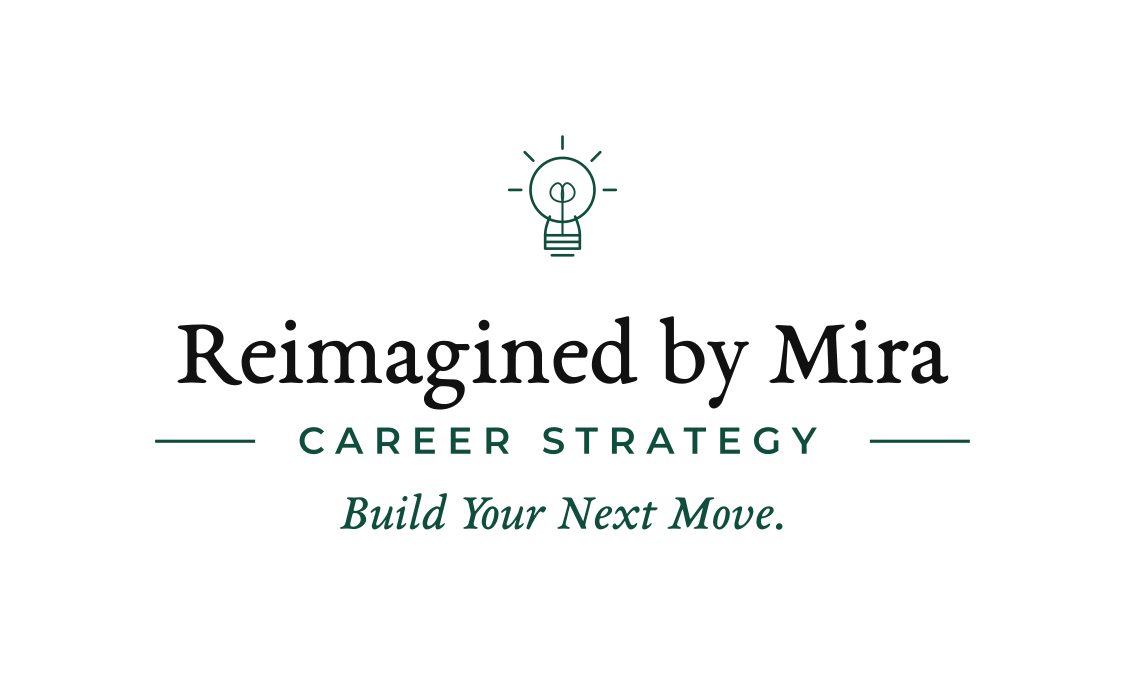
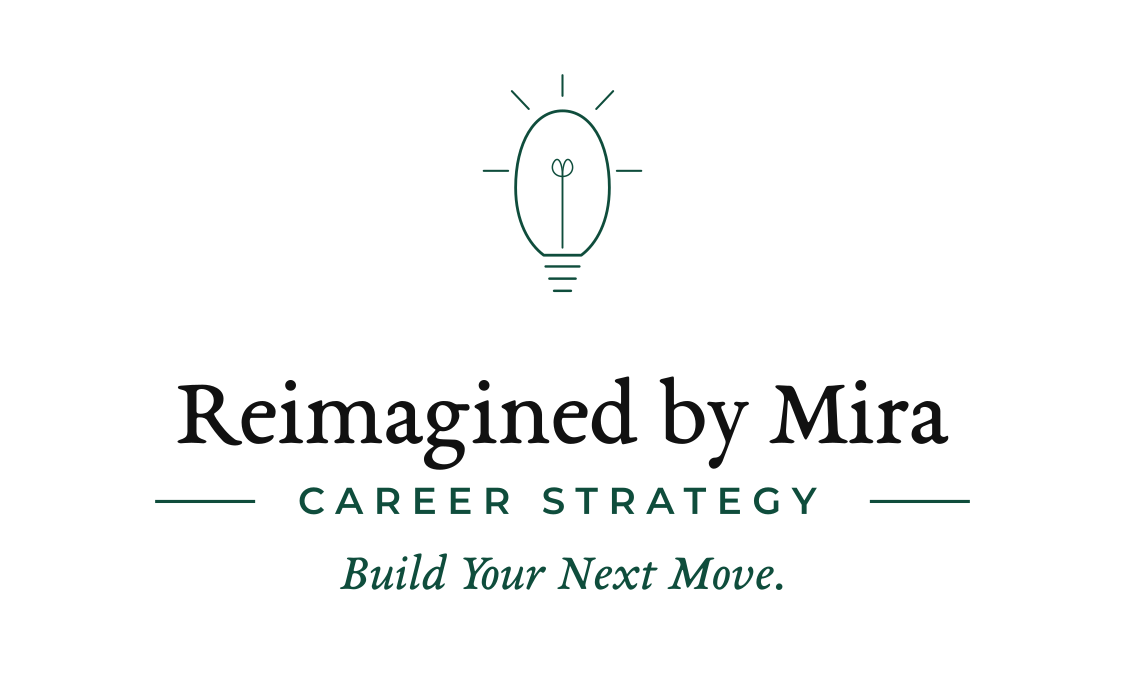
Redesign lightbulb mark for a more premium, editorial feel
Full redraw per feedback that the icon read as generic clip art next
to the refined wordmark:

- Globe: graceful tapered (non-circular) silhouette instead of a
  perfect circle, closer to an Edison-bulb grace note
- Size: ~40% larger so it holds its own as a focal point above the name
- Strokes: thinner throughout (was 2-2.2pt, now 0.8-1.5pt at this scale)
- Base: floating tapered rings with real spacing instead of a boxed
  rectangle with stacked bars
- Rays: thinner, longer, more gap from the globe
- Filament: smaller, thinner stem, delicate twin leaves instead of
  round loops, kept centered
- More whitespace between the icon and the wordmark below it

diff --git a/business-card/generate.py b/business-card/generate.py
@@ -78,26 +78,38 @@ SVG_HEAD = (
 
 
 def lightbulb_icon(cx, top_y, width):
-    """Lightbulb-with-sprout logo. Local box is 100x120 units."""
+    """Lightbulb-with-sprout mark. Local box is 100x135 units: a graceful
+    tapered (non-circular) globe, thin balanced rays, a floating tapered
+    ring base, and a delicate twin-leaf filament -- refined line weights
+    throughout for a premium, editorial feel rather than a stock glyph."""
     s = width / 100.0
-    h = 120.0 * s
+    h = 135.0 * s
     tx = cx - width / 2.0
     ty = top_y
     return f'''  <g transform="translate({tx:.3f},{ty:.3f}) scale({s:.5f})"
      fill="none" stroke="{GREEN}" stroke-linecap="round" stroke-linejoin="round">
-    <line x1="50" y1="13" x2="50" y2="4" stroke-width="2"/>
-    <line x1="28.1" y1="22.1" x2="21.7" y2="15.7" stroke-width="2"/>
-    <line x1="71.9" y1="22.1" x2="78.3" y2="15.7" stroke-width="2"/>
-    <line x1="19" y1="44" x2="10" y2="44" stroke-width="2"/>
-    <line x1="81" y1="44" x2="90" y2="44" stroke-width="2"/>
-    <circle cx="50" cy="44" r="24" stroke-width="2"/>
-    <path stroke-width="2" d="M 40.5,64 C 38,70 37,74 37,78 L 63,78 C 63,74 62,70 59.5,64"/>
-    <path stroke-width="2" d="M 37,78 L 37,88 L 63,88 L 63,78"/>
-    <line x1="38" y1="83" x2="62" y2="83" stroke-width="2"/>
-    <line x1="42" y1="93" x2="58" y2="93" stroke-width="2"/>
-    <path d="M 50,78 L 50,53" stroke-width="1.6"/>
-    <path d="M 50,53 C 41,53 38,45 44,40 C 49,36 52,44 50,53 Z" stroke-width="1.4"/>
-    <path d="M 50,53 C 59,53 62,45 56,40 C 51,36 48,44 50,53 Z" stroke-width="1.4"/>
+    <g stroke-width="1.1">
+      <line x1="50" y1="12" x2="50" y2="1"/>
+      <line x1="32" y1="19" x2="23" y2="9.5"/>
+      <line x1="68" y1="19" x2="77" y2="9.5"/>
+      <line x1="21" y1="52" x2="8" y2="52"/>
+      <line x1="79" y1="52" x2="92" y2="52"/>
+    </g>
+    <path stroke-width="1.5" d="M 25,61
+             C 25,37 35,20 50,20
+             C 65,20 75,37 75,61
+             C 75,79 68,91 60,97
+             L 40,97
+             C 32,91 25,79 25,61
+             Z"/>
+    <g stroke-width="1.3">
+      <line x1="41" y1="103" x2="59" y2="103"/>
+      <line x1="43" y1="109.5" x2="57" y2="109.5"/>
+      <line x1="45.5" y1="116" x2="54.5" y2="116"/>
+    </g>
+    <path stroke-width="1.0" d="M 50,93 L 50,55"/>
+    <path stroke-width="0.8" d="M 50,55 C 45,55 43,50 46,46.5 C 48,44.5 50,48 50,55 Z"/>
+    <path stroke-width="0.8" d="M 50,55 C 55,55 57,50 54,46.5 C 52,44.5 50,48 50,55 Z"/>
   </g>
 ''', h
 
@@ -146,12 +158,12 @@ def build_front():
     svg = [SVG_HEAD]
     svg.append(f'  <rect x="0" y="0" width="{DOC_W}" height="{DOC_H}" fill="{WHITE}"/>\n')
 
-    icon_top = 31.5   # nudged down from safe-top so the whole block centers in the trim box
-    icon_svg, icon_h = lightbulb_icon(CENTER_X, icon_top, 32)
+    icon_top = 17.6   # positions the whole block to center in the trim box
+    icon_svg, icon_h = lightbulb_icon(CENTER_X, icon_top, 45)
     svg.append(icon_svg)
     icon_bottom = icon_top + icon_h
 
-    name_y = icon_bottom + 22
+    name_y = icon_bottom + 28
     svg.append(centered_text(CENTER_X, name_y, "Reimagined by Mira", SERIF, 23.5, TEXT, weight="600"))
 
     strategy_y = name_y + 17
